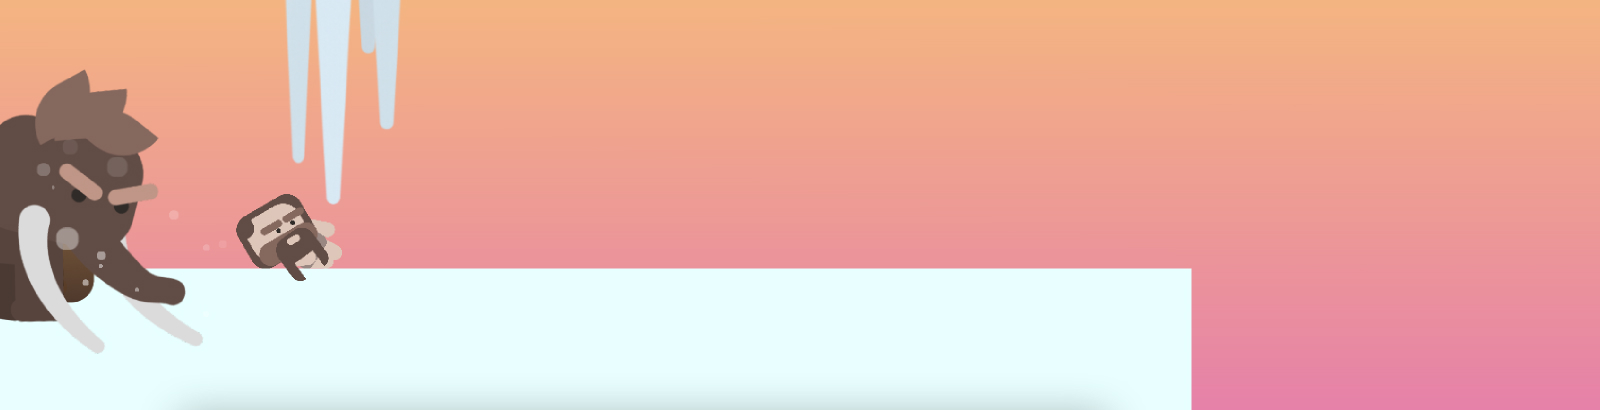
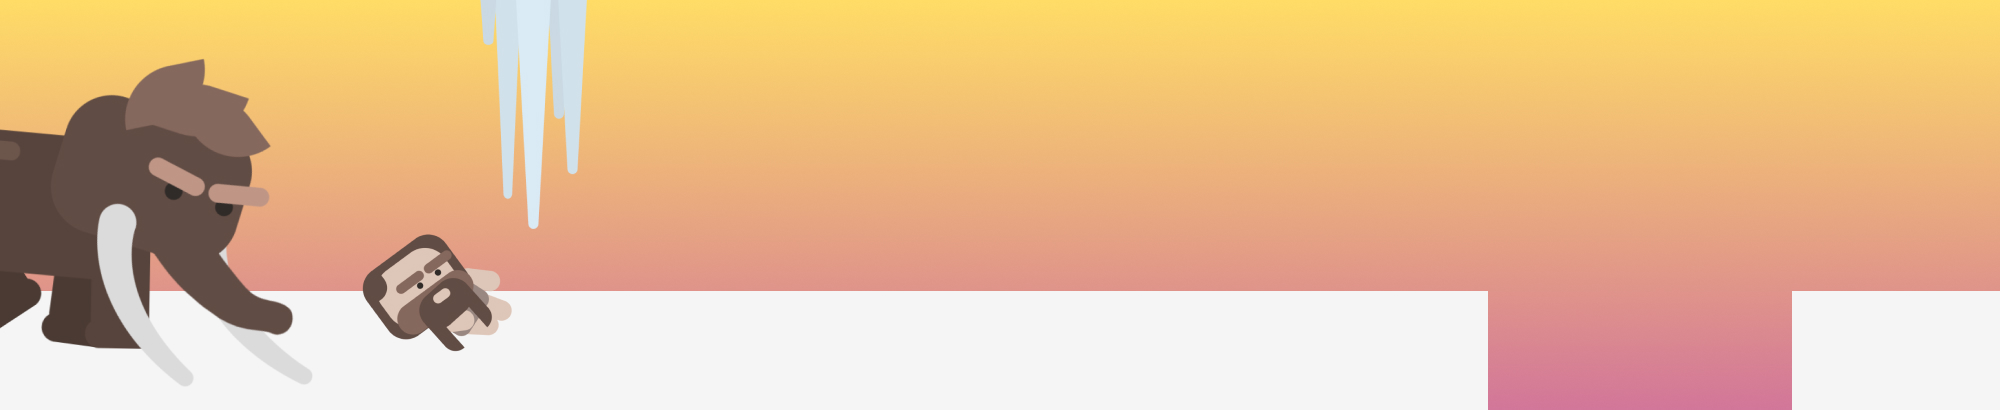
Changed animations page

diff --git a/pages/work/animations.html b/pages/work/animations.html
@@ -24,39 +24,22 @@
         <div class="header-text">
             <h2 class="pre-title">Motion design</h2>
             <h1>Animation compilation</h1>
-            <p>A smorgasbord of different animations that I've created</p>
         </div>
         <br>
     </header>
 
-    <article class="content-wrapper">
-        <section>
-            <h3>SHAPE SHIFTER</h3>
-            <p>Lorem ipsum dolor sit amet consectetur adipisicing elit. Consequuntur neque eius eum minus recusandae labore nisi cumque dolores rerum modi quasi ab suscipit, tempora fugiat asperiores cum earum aliquam et sint? Laborum obcaecati quae, ea neque possimus ducimus earum deserunt. Inventore aperiam provident dicta eius pariatur aspernatur consequatur porro officiis.</p>
+    <main>
+        <p>A smorgasbord of different animations that I've created - primarily in After Effects</p>
+
+        <section class="video-grid">
+            <video class="animation-video" controls loop src="../../videos/shapes.mp4"></video>
+            <video class="animation-video" controls loop src="../../videos/load-animations.mp4"></video>
+            <video class="animation-video" controls loop src="../../videos/head-ball.mp4"></video>
+            <video class="animation-video" controls loop src="../../videos/ramp.mp4"></video>
         </section>
-        <video class="animation-video" controls loop src="../../videos/shapes.mp4"></video>
-    </article>
-    <article class="content-wrapper">
-        <section>
-            <h3>LOADING ANIMATIONS</h3>
-            <p>Lorem ipsum dolor sit amet consectetur adipisicing elit. Consequuntur neque eius eum minus recusandae labore nisi cumque dolores rerum modi quasi ab suscipit, tempora fugiat asperiores cum earum aliquam et sint? Laborum obcaecati quae, ea neque possimus ducimus earum deserunt. Inventore aperiam provident dicta eius pariatur aspernatur consequatur porro officiis.</p>
-        </section>
-        <video class="animation-video" controls loop src="../../videos/load-animations.mp4"></video>
-    </article>
-    <article class="content-wrapper">
-        <section>
-            <h3>HEAD BALL</h3>
-            <p>Lorem ipsum dolor sit amet consectetur adipisicing elit. Consequuntur neque eius eum minus recusandae labore nisi cumque dolores rerum modi quasi ab suscipit, tempora fugiat asperiores cum earum aliquam et sint? Laborum obcaecati quae, ea neque possimus ducimus earum deserunt. Inventore aperiam provident dicta eius pariatur aspernatur consequatur porro officiis.</p>
-        </section>
-        <video class="animation-video" controls loop src="../../videos/head-ball.mp4"></video>
-    </article>
-    <article class="content-wrapper">
-        <section>
-            <h3>RAMP</h3>
-            <p>Lorem ipsum dolor sit amet consectetur adipisicing elit. Consequuntur neque eius eum minus recusandae labore nisi cumque dolores rerum modi quasi ab suscipit, tempora fugiat asperiores cum earum aliquam et sint? Laborum obcaecati quae, ea neque possimus ducimus earum deserunt. Inventore aperiam provident dicta eius pariatur aspernatur consequatur porro officiis.</p>
-        </section>
-        <video class="animation-video" controls loop src="../../videos/ramp.mp4"></video>
-    </article>
+
+    </main>
+    
 
     <script src="../../scripts/script.js"></script>
 </body>

diff --git a/pages/work.html b/pages/work.html
@@ -25,50 +25,50 @@
     </header>
     <section class="project-wrapper">
         <!-- project 01 -->
-        <a href="work/space-poster.html">
-            <div class="project-box hidden">
-                <h3 class="project-title">
-                    01. Space poster
-                </h3>
-                <div class="project-image b1"></div>
-            </div>
-        </a>
-        <!-- project 02 -->
-        <a href="work/animations.html">
-            <div class="project-box hidden">
-                <h3 class="project-title">
-                    02. Animation compilation
-                </h3>
-                <div class="project-image b2"></div>
-            </div>
-        </a>
-        <!-- project 03 -->
-        <a href="work/ice-runner.html">
-            <div class="project-box hidden">
-                <h3 class="project-title">
-                    03. Ice runner
-                </h3>
-                <div class="project-image b3"></div>
-            </div>
-        </a>  
-        <!-- project 04 -->
         <a href="work/redesign-vjbyg.html"> 
             <div class="project-box hidden">
                 <h3 class="project-title">
-                    04. Website re-design
+                    01. Website re-design
                 </h3>
                 <div class="project-image b4"></div>
             </div>
         </a>
-        <!-- project 05 -->
+        <!-- project 02 -->
+        <a href="work/space-poster.html">
+            <div class="project-box hidden">
+                <h3 class="project-title">
+                    02. Space poster
+                </h3>
+                <div class="project-image b1"></div>
+            </div>
+        </a>
+        <!-- project 03 -->
+        <a href="work/animations.html">
+            <div class="project-box hidden">
+                <h3 class="project-title">
+                    03. Animation compilation
+                </h3>
+                <div class="project-image b2"></div>
+            </div>
+        </a>
+        <!-- project 04 -->
         <a href="work/animation-me.html">
             <div class="project-box hidden">
                 <h3 class="project-title">
-                    05. Personal animation
+                    04. Personal animation
                 </h3>
                 <div class="project-image b5"></div>
             </div>
         </a>
+        <!-- project 05 -->
+        <a href="work/ice-runner.html">
+            <div class="project-box hidden">
+                <h3 class="project-title">
+                    05. Ice runner
+                </h3>
+                <div class="project-image b3"></div>
+            </div>
+        </a>  
         <!-- project 06 -->
         <a href="#">
             <div class="project-box hidden">

diff --git a/pages/work/ice-runner.html b/pages/work/ice-runner.html
@@ -29,8 +29,9 @@
     </header>
 
     <article>
-        <h3>Lorem, ipsum dolor.</h3>
-        <p>Lorem ipsum dolor sit amet consectetur adipisicing elit. Voluptate natus repellendus, accusamus a nobis dolore provident. Eius quae quo corrupti quod nobis accusamus at ducimus atque ex illo veritatis, nemo laborum similique voluptate, deserunt consequatur sed dignissimos eaque eligendi provident? Cumque illum sequi hic, impedit repellendus eligendi molestias atque magni minus modi assumenda quo, fugit dolore veritatis nemo id voluptatibus quaerat dolorum sed? Eaque cumque rem, voluptate nostrum debitis sapiente. Recusandae consequuntur nemo porro, est fugit aperiam, obcaecati quisquam sapiente consectetur alias sit laboriosam? Ut porro voluptate cum! Dolores laudantium ea minima suscipit beatae id, eum veniam saepe doloribus nemo.</p>
+        <h3>Concept & my roles</h3>
+        <p>In this fun project we developed a fully functional game as an installation concept for Museum Kolding, to communicate how the landscape around the museum once was covered by thick sheets of ice, and inhabited by woolly mammoths. The game incorporates knowledge about the ice age as a key game mechanic by asking questions which, if answered correctly, gives the player a score multiplier.</p>
+        <p>My roles in this project was animations and programming. Animations were done by importing illustrator files into after effects and are displayed here using Lottie. Code was written in GML, an object oriented language developed specifically for game development.</p>
 
         <section class="animation-wrapper">
             <div id="mammoth-animation-container"></div>
@@ -40,8 +41,8 @@
         <section class="img-long">
             <div class="img-gradient">
                 <div class="img-long-text">
-                    <h3>Lorem, ipsum dolor.</h3>
-                    <p>Lorem ipsum, dolor sit amet consectetur adipisicing elit. Magni, qui soluta, beatae saepe sint quibusdam dicta veniam aliquam ut reprehenderit excepturi nesciunt nobis omnis cumque deleniti molestiae, assumenda culpa modi id cupiditate. Tempora ipsam corrupti facilis officia! Praesentium voluptates aperiam repudiandae dolorem, consequatur ipsum quibusdam atque dolor. Repellat, ut sequi?</p>        
+                    <h3>So, how does it work?</h3>
+                    <p>The game is an endless side scrolling runner game with a high schore system. It get's progressively harder by speeding up and spawning more obstacles. The world is randomly generated so no two runs are exactly the game. I guess you could call it a classic toilet game.</p>        
                 </div>
             </div>
         </section>

diff --git a/css/style.css b/css/style.css
@@ -6,6 +6,7 @@
     --margin: clamp(10px, 3vw, 30px);
     --flex-gap: clamp(30px, 5vw, 60px);
     --scroll-animation-size: 4vw;
+    --content-width: clamp(600px, 80vw, 1200px);
 }
 
 
@@ -247,6 +248,7 @@ svg{
 
 /* ABOUT PAGE */
 .about-main{
+    min-height: 70vh;
     display: flex;
     gap: var(--flex-gap);
     justify-content: center;
@@ -325,11 +327,6 @@ button{
     gap: 40px;
 }
 
-.animation-video{
-    width: clamp(300px,30vw,500px);
-}
-
-
 .content-header{
     display: flex;
     flex-direction: column;
@@ -372,6 +369,18 @@ button{
     background-image: url('../img/banner-animations.jpg');
 }
 
+.animation-video{
+    width: clamp(400px,30vw,500px);
+}
+
+.video-grid{
+    margin: var(--margin);
+    display: grid;
+    grid-template-columns: 1fr 1fr;
+    justify-items: center;
+    gap: 50px;
+}
+
 /* ICE RUNNER PAGE */
 #ice-runner .content-header{
     background-image: url(../img/banner-ice-runner.jpg);
@@ -393,8 +402,10 @@ button{
 }
 
 .img-long{
+    width: 100vw;
     height: 410px;
     background-image: url('../img/ice-runner-long.jpg');
+    transform: translateX(calc(0px - var(--margin)));
 }
 .img-gradient{
     width: 70%;
@@ -407,9 +418,10 @@ button{
     align-items: center;
 }
 .img-long-text{
+    color: white;
     text-align: right;
     max-width: 400px;
-    margin-right: calc(var(--margin) + 30px)
+    margin-right: var(--margin)
 }
 .img-gallery{
     margin-top: 100px;
@@ -480,10 +492,7 @@ button{
 }
 
 
-
-
-
-/* Scroll animation */
+/* JS scroll animation */
 .hidden{
     opacity: 0;
     filter: blur(30px);
@@ -509,6 +518,11 @@ button{
         text-align: center;
     }
 
+    .about-main img{
+        margin-top: 30px;
+        width: 90%;
+    }
+
     .content-wrapper{
         flex-wrap: wrap;
         text-align: center;
@@ -527,6 +541,22 @@ button{
     }
     .img-gallery img{
         width: clamp(100px, 80vw, 400px);
+    }
+
+    .contact-main{
+        flex-direction: column;
+        align-items: flex-start;
+    }
+
+    .contact-main form{
+        width: 100vw;
+    }
+
+    .video-grid{
+        grid-template-columns: 1fr;
+    }
+    .animation-video{
+        width: clamp(250px,90vw,500px);
     }
 }
 

diff --git a/pages/work/space-poster.html b/pages/work/space-poster.html
@@ -30,7 +30,7 @@
     </header>
 
     <main>
-        <p>Lorem ipsum, dolor sit amet consectetur adipisicing elit. Necessitatibus illum facere sed ducimus blanditiis, autem corporis provident. Ipsam similique provident labore autem laudantium quidem totam optio odit iste modi laboriosam praesentium quaerat facere reiciendis, incidunt consequuntur mollitia sunt expedita rerum quis odio nemo, ipsum doloremque! Praesentium reiciendis aspernatur laborum molestiae?</p>
+        <p>This poster was a small side project (one of way too many). It's made primarily with the pen tool in illustrator and then brought to life with texture in photoshop. It has no purpose or artsy name. It's just a fun drawing.</p>
         <img src="../../img/spaceboi.jpg" alt="poster with astronaut">
     </main>
 

diff --git a/pages/contact.html b/pages/contact.html
@@ -24,7 +24,7 @@
         <section>
             <h1 class="pre-title">Contact me</h1>
             <h2>Let's get acquainted</h2>
-            <p>Lorem ipsum dolor sit amet consectetur adipisicing elit. Ipsam, voluptatem. Quia at maxime iusto nisi, enim consequuntur. Odit dicta optio corporis hic, possimus nihil blanditiis.</p>
+            <p>Got any questions, comments or opportunities? You're more than welcome to drop me a line. I'm a phone addicted millennial so I'll probably get back to you rigth away.</p>
             <br>
             <span class="contact-info">
                 <p>Hello@Mattishenner.dk</p>
